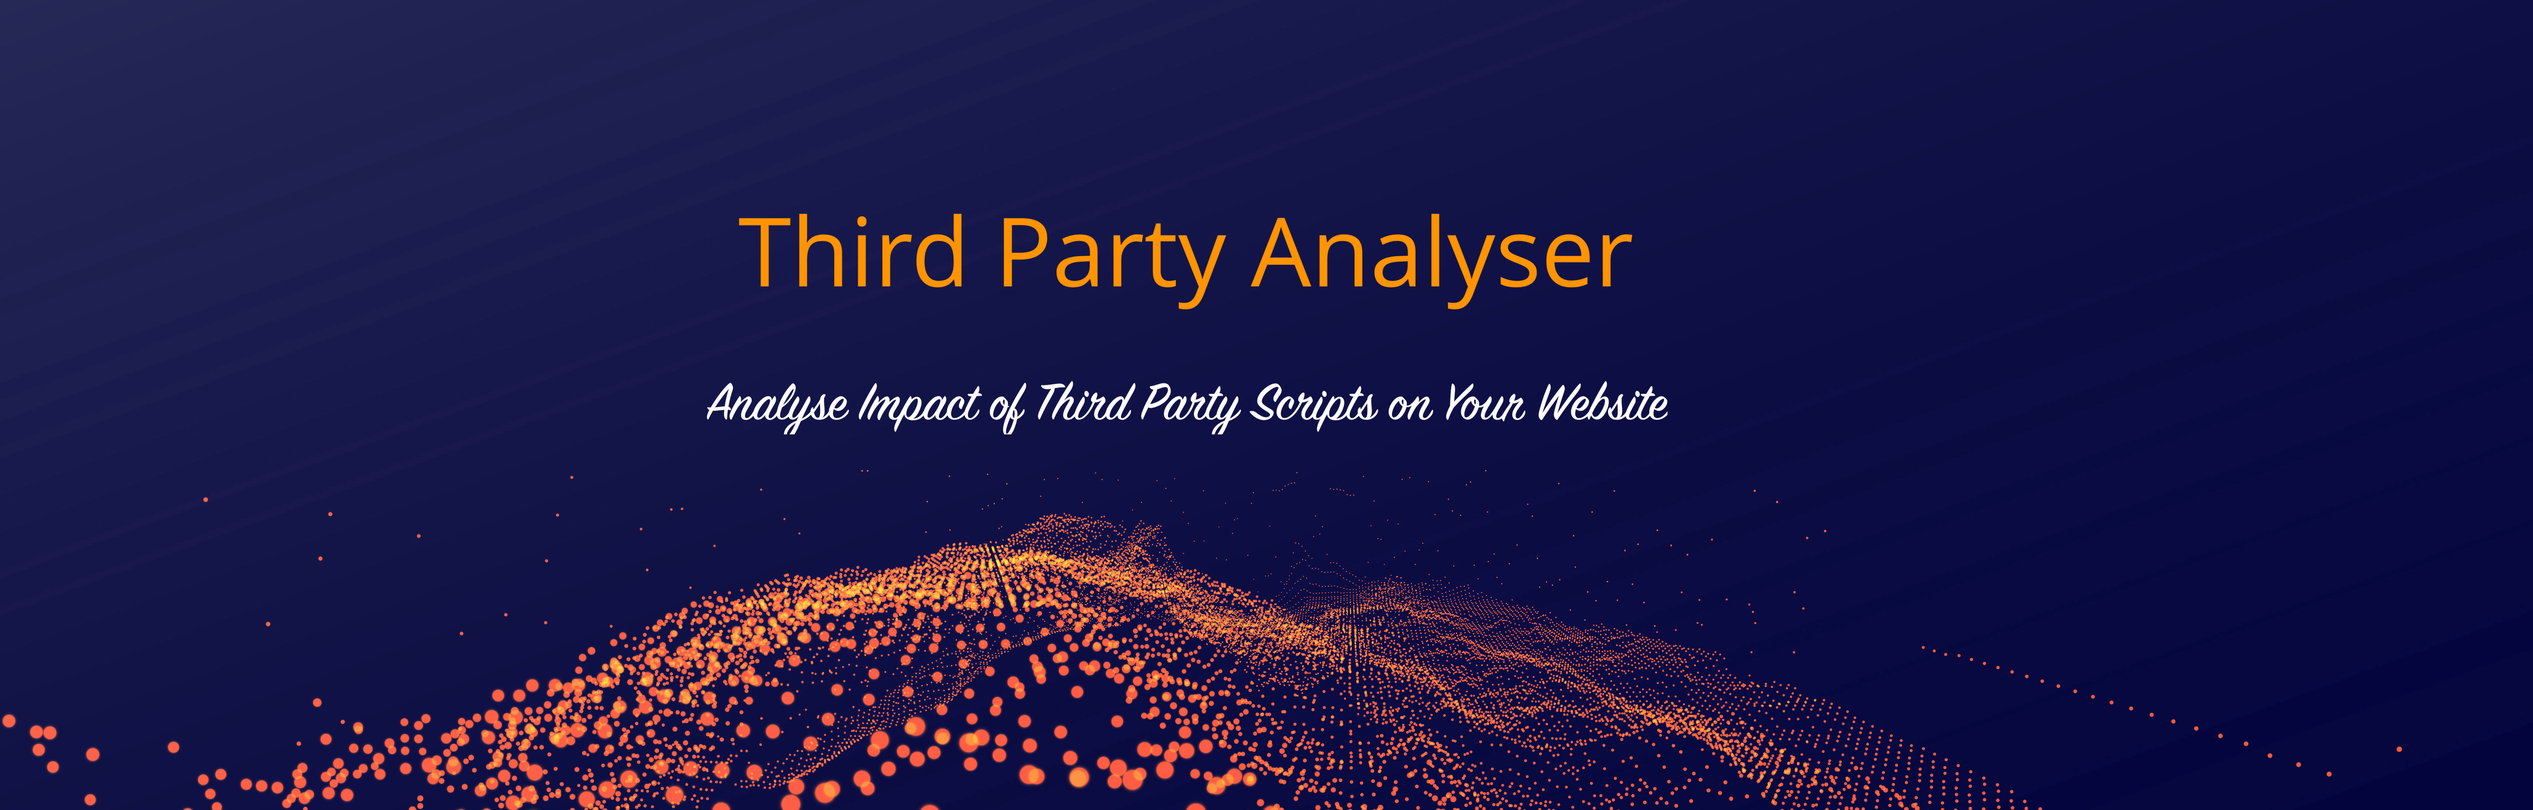
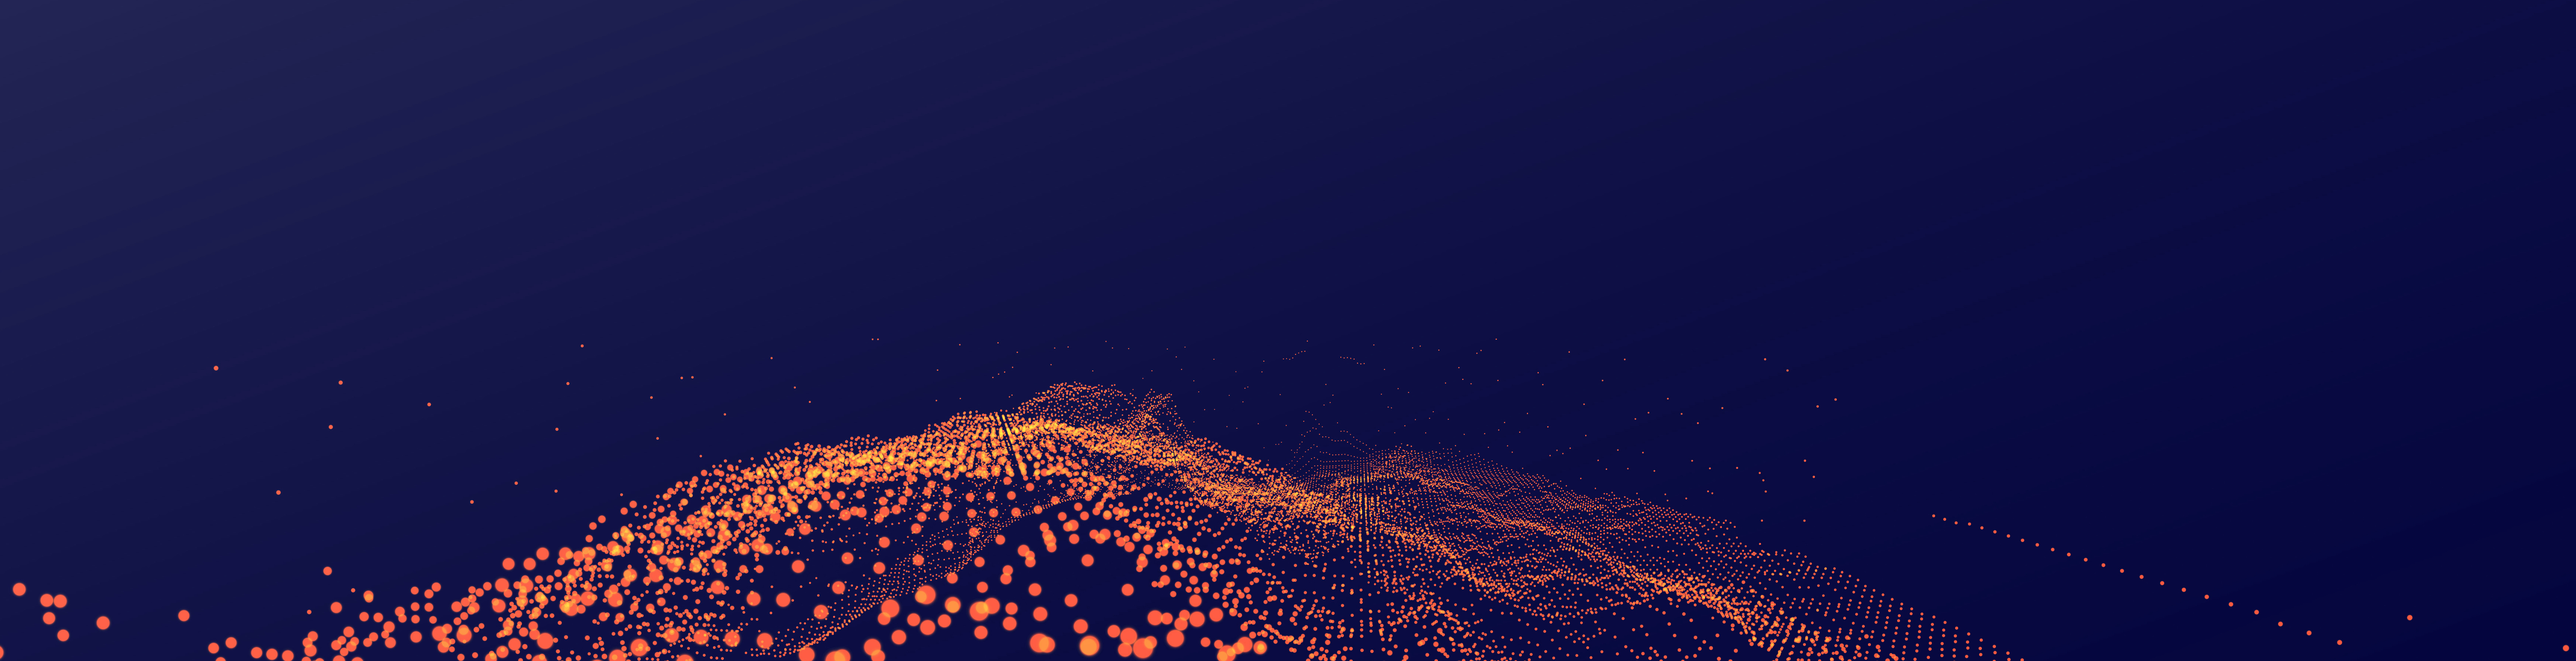
Update homepage ui

diff --git a/src/styles/Form.css b/src/styles/Form.css
@@ -1,126 +1,108 @@
+.home-page{
+  height: 100vh;
+  width: 100vw;
+}
+
 .website-title{
   width: 100%;
+  display: flex;
+  flex-direction: column;
   position: relative;
+  align-items: center;
+  justify-content: center;
   top: 0;
   height: max(30vh, 400px);
   background-image: url('/public/bg.jpg');
-  background-size: cover;
+  background-size:cover;
   background-repeat: no-repeat;
+  color: aliceblue;
 }
 
-.url-form {
+.website-title .title{
+  color: orange;
+  font-size: 50px;
+}
+
+.website-title .description{
+  font-family: signpainter;
+  font-size: 30px;
+  margin-left: 1em;
+}
+.form{
+  width: 90%;
+  margin: 0 5%;
   display: flex;
   flex-direction: column;
-  justify-content: center;
-  align-items: center;
+  color:darkslateblue;
 }
 
-.url-input {
-  display: flex;
-  flex-wrap: wrap;
-  flex-direction: column;
-  width: 60vw;
-  text-align: left;
-  justify-content: space-between;
-  box-shadow: rgba(149, 157, 165, 0.2) 0px 8px 24px;
-  padding: 1rem;
+.form-title{
+  float: left;
+  margin: 1rem 1rem 1rem 0;
 }
 
-.url-input label{
-  display: inline-block;
-    margin-bottom: 0.5em;
-    margin-right: 0.5em;
-}
-
-.url-input input {
+.form-text-input{
   display: block;
-  width: calc(60vw - 2em);
-    padding: .375rem .75rem;
-    border: 1px solid #ced4da;
-    border-radius: .25rem;
-    margin-bottom: 1em;
-    height: 2em;
+  width: 100%;
+  padding: .375rem .75rem;
+  font-size: 1.2rem;
+  border: 1px solid #ced4da;
+  border-radius: 2rem;
+  margin: 0 1em 1em 0;
+  height: 2em;
 }
 
-.url-form input:focus {
+.form-text-input input:focus {
   outline: none;
 }
 
-.url-input button {
-  font-size: 1em;
-  background-color: #107eff;
-  color: aliceblue;
-  width: 8em;
+.form-options{
+  display: flex;
+  justify-content: space-between;
+  align-items: center;
+}
+
+.form-group {
+  flex: 1 0 auto;
   height: 2em;
+  margin: 1em;
+}
+
+.form-group select{
+  display: inline;
+  padding: .375rem .75rem;
+  border: 1px solid #ced4da;
+  border-radius: .25rem;
+  outline: none;
+  text-align: left;
+  margin-top: 0;
+  margin-right: 1em;
+}
+
+.form-options button {
+  font-size: 1em;
+  background-color: darkslateblue;
+  width: 10em;
+  color: aliceblue;
+  height: 3em;
   margin: 1em 0;
   border: none;
   cursor: pointer;
-  border-radius: 1rem;
+  border-radius: 0.25rem;
 }
 
-.url-input button:hover {
-  background-color: #126ed8;
-}
+.form-group input{
+  padding: .375rem .75rem;
+  font-size: 0.8rem;
+  width: 4em;
+  border: 1px solid #ced4da;
+  border-radius: 0.5rem;
+  margin: 0 1em 1em 1em;
+} 
 
-.header-input {
-  width: 90%;
-  border-collapse: collapse;
-  text-align: center;
-}
-
-.header-input input {
-  border: 1px solid rgb(180, 180, 180);
-  padding: 1em;
-  box-sizing: border-box;
-  font-size: 1em;
-  width: 90%;
-  margin: 0.5em;
-  height: 2em;
-}
-
-.header-input th {
-  background-color: #333;
-  color: white;
-  font-size: large;
-  max-width: 80%;
-}
-
-.header-input th:last-of-type {
-  background-color: white;
-}
-
-.header-input img {
-  margin-top: 10px;
-  width: 30px;
-  height: 30px;
-  cursor: pointer;
-}
-
-.header-text {
-  margin: 0.5em;
-}
-
-.url-input .select-box{
-  display: block;
-  width: 100%;
-    padding: .375rem .75rem;
-    border: 1px solid #ced4da;
-    border-radius: .25rem;
-    outline: none;
-    text-align: left;
-    margin-top: 0;
-    margin-right: 1em;
-}
-
-.selectors{
-  display: flex;
-  flex-wrap: wrap;
-  justify-content: flex-start;
-}
-
-.form-note{
-  margin-top: 0.25rem;
-  font-size: 0.875em;
-  color:rgb(131, 129, 129);
-  margin-bottom: 1em;
+@media screen and  (max-width: 960px){
+  .form-options{
+    flex-direction: column;
+    align-items: flex-start;
+  }
 }

diff --git a/src/components/Form.js b/src/components/Form.js
@@ -31,18 +31,29 @@ function Form({ onFormSubmit }) {
   }
 
   return (
-    <>
-    <div className="website-title"></div>
-    <div className="url-form">
-      
-      <div className="url-input">
+    <div className="home-page">
+      <div className="website-title">
+        <div className="title">Third Party Analyser</div>
+        <div className="description">Analyse Impact of Third Party Scripts on Your Website</div>
+      </div>
+      <div className="form">
+        <h1 className="form-title">Start a new analysis!</h1>
+        <input
+          className="form-text-input"
+          type="text"
+          id="url-input"
+          placeholder="Enter a website URL..."
+          ref={urlRef}
+        />
+        <div className="form-options">
+          <div className="form-group">
           <label htmlFor="device-input">Device Type: </label>
-          <select className="select-box" ref={deviceRef} id="device-input">
+          <select ref={deviceRef} id="device-input">
             <option value="mobile">Mobile</option>
             <option value="desktop">Desktop</option>
           </select>
-          <small class="form-note">Select a device type on wchich we have to simulate analysis</small>
-
+          </div>
+          <div className="form-group">
           <label htmlFor="flow-input">Analysis Type: </label>
           <select
             className="select-box"
@@ -54,31 +65,22 @@ function Form({ onFormSubmit }) {
             <option value="navigation">Navigation</option>
             <option value="timespan">Timespan</option>
           </select>
-          <small class="form-note">Select navigate for page load analysis, use timespan to let analysis wait for some time for interaction</small>
-        {flow === "timespan" && (
-          <>
-            <label htmlFor="wait-input">Wait Time</label>
-            <input
-              type="number"
-              id="wait-input"
-              placeholder="e.g. 10"
-              ref={waitTimeRef}
-            />
-          </>
-        )}
-
-        <label htmlFor="url-input">URL</label>
-        <input
-          type="text"
-          id="url-input"
-          placeholder="e.g. https://example.com"
-          ref={urlRef}
-        />
-        <button onClick={handleUrlSubmit}>Submit</button>
+          </div>
+          {flow === "timespan" && (
+            <div className="form-group">
+              <label htmlFor="wait-input">Wait Time</label>
+              <input
+                type="number"
+                id="wait-input"
+                value={0}
+                ref={waitTimeRef}
+              />
+            </div>
+          )}
+           <button onClick={handleUrlSubmit}>Submit &#8594;</button>
+        </div>
       </div>
-      <small style={{float: 'right', fontSize: '0.25rem'}}><a href='https://www.freepik.com/vectors/data-flow'>Data flow vector created by starline - www.freepik.com</a></small>
     </div>
-    </>
   );
 }
 

diff --git a/src/styles/Home.css b/src/styles/Home.css
@@ -1,8 +1,8 @@
 .container {
   display: flex;
   flex-direction: column;
-  justify-content: center;
   align-items: center;
+  justify-content: center;
   min-height: calc(100vh - 16px);
   width: 100%;
 }
